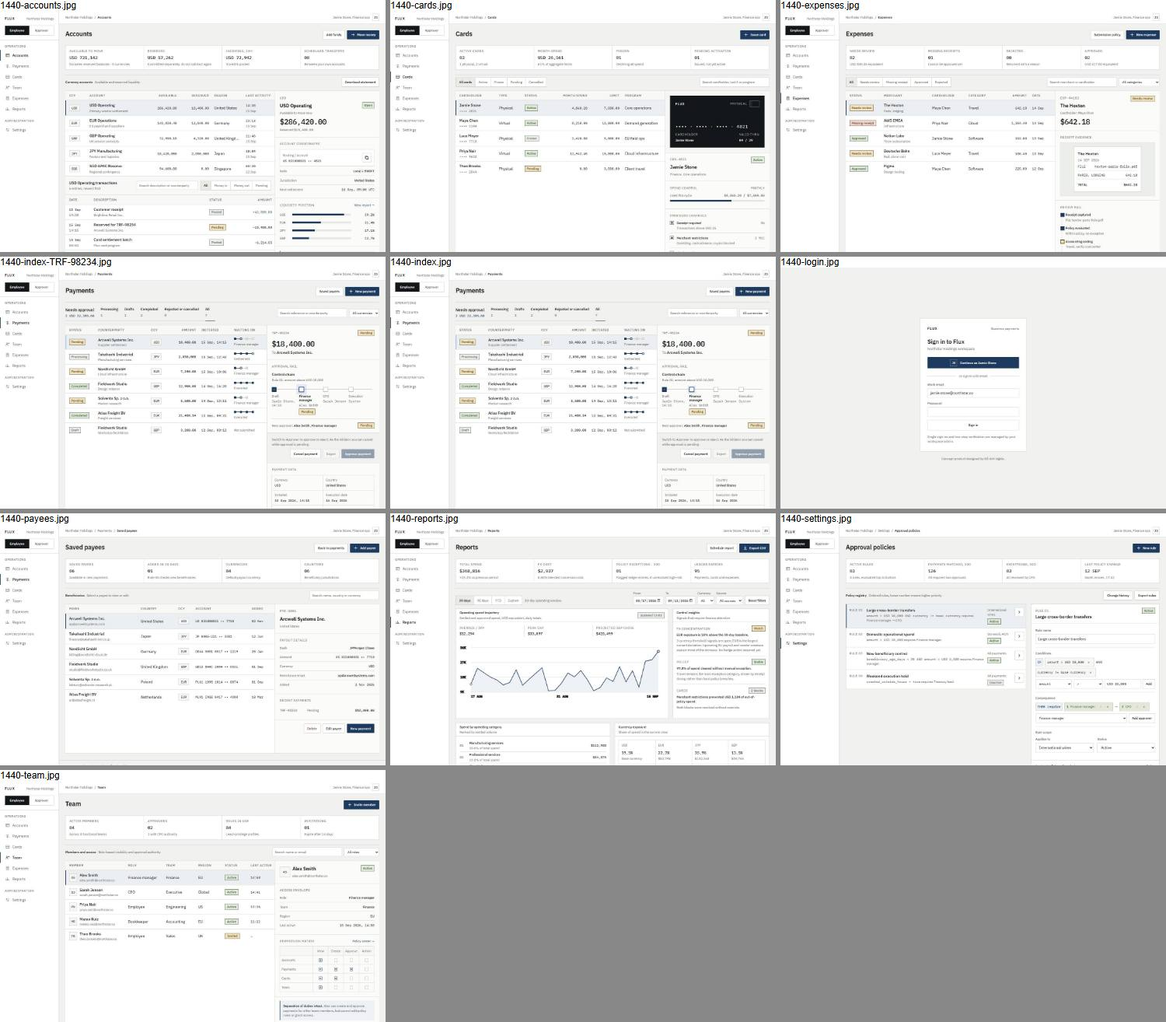
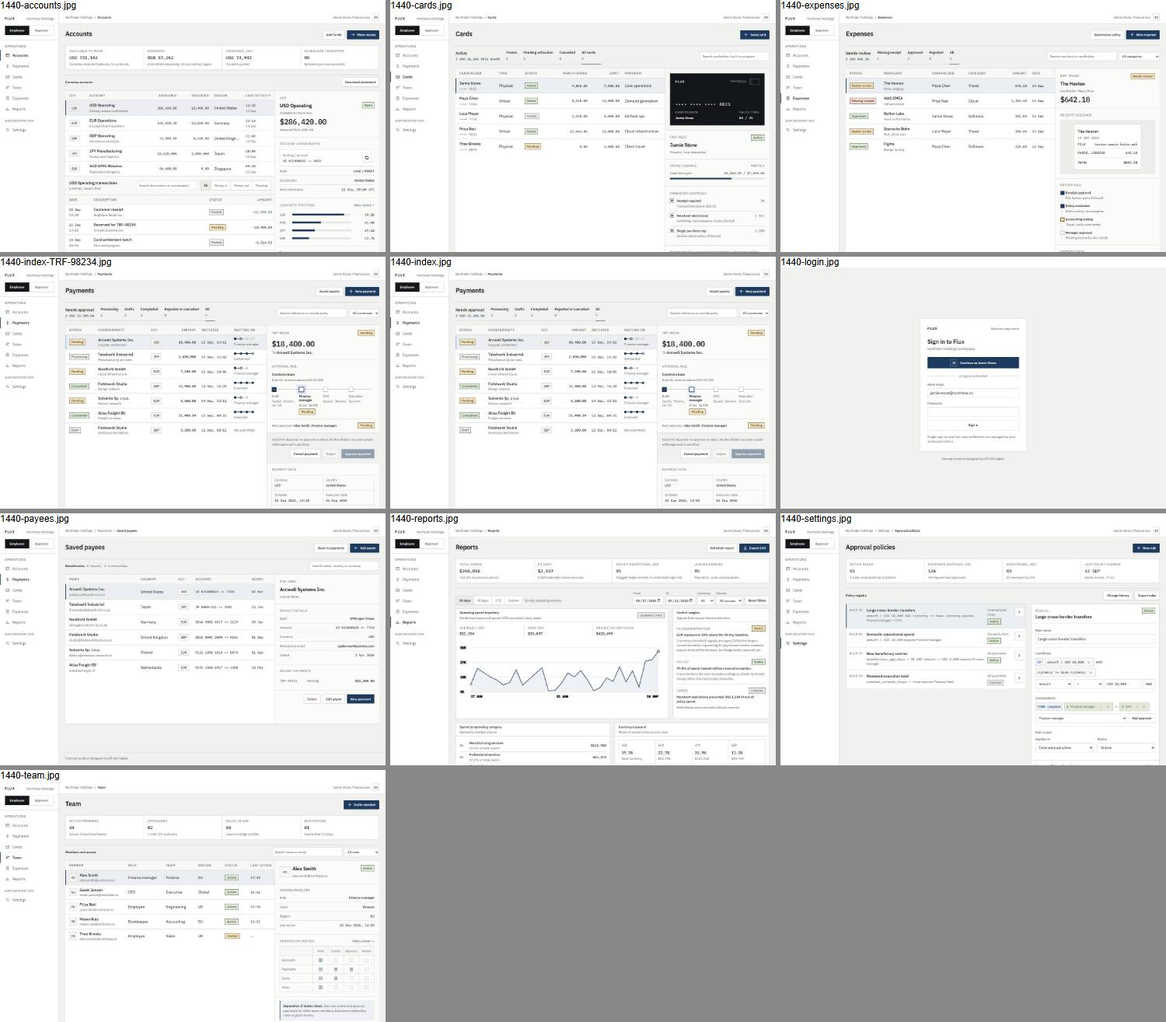
Remaining screens: counted tabs, ledger lists on phones, cleaner copy
- Cards and Expenses: the metric strip becomes counted status tabs; the work
  tab leads with its value.
- Payees: drop the low-value strip; the count sits in the list header.
- Accounts, Team, Reports, Settings keep their strip (unique figures); the
  explanatory notes beside section titles are removed.
- Every table reads as a two-line ledger list on phones. The forced 860, 700
  and 620 px table widths and sideways scrolling are deleted.
- Replace ' · ' joins with commas or spacing; three copy-locking test strings
  updated with the reason recorded in docs/redesign/inventory.md.

full-flows 17/17, Playwright specs 6/6, taste-check 0 errors on 8 screens at
390 and 1440 px, overlay-check 0 errors.

diff --git a/cards.html b/cards.html
@@ -49,25 +49,19 @@
           <div class="page-title"><h1>Cards</h1></div>
           <div class="page-actions"><button class="btn btn-primary" type="button" id="open-issue-card"><svg viewBox="0 0 24 24" aria-hidden="true"><path d="M12 5v14M5 12h14"></path></svg><span>Issue card</span></button></div>
         </div>
-        <section class="metrics-strip" aria-label="Card program summary">
-          <div class="metric"><span class="metric-label">Active cards</span><strong class="metric-value" id="metric-active-cards">—</strong><span class="metric-note" id="metric-active-note">Physical and virtual</span></div>
-          <div class="metric"><span class="metric-label">Month spend</span><strong class="metric-value" id="metric-card-spend">—</strong><span class="metric-note" id="metric-card-spend-note">Of aggregate limits</span></div>
-          <div class="metric"><span class="metric-label">Frozen</span><strong class="metric-value" id="metric-frozen">—</strong><span class="metric-note">Declining all spend</span></div>
-          <div class="metric"><span class="metric-label">Pending activation</span><strong class="metric-value" id="metric-pending-cards">—</strong><span class="metric-note">Issued, not yet active</span></div>
-        </section>
         <div class="toolbar">
-          <div class="toolbar-group"><div class="segmented" role="group" aria-label="Card status filter"><button class="active" type="button" data-card-filter="all">All cards</button><button type="button" data-card-filter="Active">Active</button><button type="button" data-card-filter="Frozen">Frozen</button><button type="button" data-card-filter="Pending">Pending</button><button type="button" data-card-filter="Cancelled">Cancelled</button></div></div>
+          <div class="toolbar-group"><div class="status-tabs" role="group" aria-label="Card status filter"><button type="button" class="status-tab lead" data-card-filter="Active"><span class="status-tab-label">Active</span><span class="status-tab-meta"><span data-count="Active">0</span> <span class="status-tab-sum" data-sum="spend"></span></span></button><button type="button" class="status-tab" data-card-filter="Frozen"><span class="status-tab-label">Frozen</span><span class="status-tab-meta"><span data-count="Frozen">0</span></span></button><button type="button" class="status-tab" data-card-filter="Pending"><span class="status-tab-label">Pending activation</span><span class="status-tab-meta"><span data-count="Pending">0</span></span></button><button type="button" class="status-tab" data-card-filter="Cancelled"><span class="status-tab-label">Cancelled</span><span class="status-tab-meta"><span data-count="Cancelled">0</span></span></button><button type="button" class="status-tab active" data-card-filter="all"><span class="status-tab-label">All cards</span><span class="status-tab-meta"><span data-count="all">0</span></span></button></div></div>
           <div class="toolbar-group"><label class="visually-hidden" for="card-search">Search cards</label><input id="card-search" class="input toolbar-search" type="search" placeholder="Search cardholder, last 4 or program"></div>
         </div>
         <section class="workbench-grid" aria-label="Corporate card workspace">
           <div class="workbench-main table-scroll" id="cards-region">
-            <table class="data-table" aria-label="Company cards"><thead><tr><th>Cardholder</th><th class="col-type">Type</th><th class="col-status">Status</th><th class="right col-money">Month spend</th><th class="right col-money-sm">Limit</th><th class="col-program">Program</th></tr></thead><tbody id="cards-body"></tbody></table>
+            <table class="data-table ledger-list ledger-cards" aria-label="Company cards"><thead><tr><th>Cardholder</th><th class="col-type">Type</th><th class="col-status">Status</th><th class="right col-money">Month spend</th><th class="right col-money-sm">Limit</th><th class="col-program">Program</th></tr></thead><tbody id="cards-body"></tbody></table>
             <div id="cards-empty"></div>
           </div>
           <aside class="workbench-aside" id="card-pane" aria-label="Selected card">
             <div id="card-not-found" class="detail-missing" hidden></div>
             <div id="card-pane-body">
-              <div class="card-stage"><div class="corporate-card" id="corporate-card" data-artwork><span class="card-brand">FLUX</span><span class="card-kind" id="card-pane-type">Physical</span><div class="card-number">•••• · •••• · •••• · <span id="card-pane-last4">4821</span></div><div class="card-meta"><span>Cardholder<strong id="card-pane-holder">Jamie Stone</strong></span><span>Valid thru<strong class="mono" id="card-pane-expiry">09 / 29</strong></span></div></div></div>
+              <div class="card-stage"><div class="corporate-card" id="corporate-card" data-artwork><span class="card-brand">FLUX</span><span class="card-kind" id="card-pane-type">Physical</span><div class="card-number">••••  ••••  ••••  <span id="card-pane-last4">4821</span></div><div class="card-meta"><span>Cardholder<strong id="card-pane-holder">Jamie Stone</strong></span><span>Valid thru<strong class="mono" id="card-pane-expiry">09 / 29</strong></span></div></div></div>
               <div class="pane-section"><div class="pane-head-row"><div><span class="pane-kicker" id="card-pane-id">CRD-4821</span><h2 class="pane-title" id="card-pane-owner">Jamie Stone</h2><p class="pane-subtitle"><span id="card-pane-department">Finance</span>, <span id="card-pane-program">Core operations</span></p></div><span class="status status-success" id="card-pane-status">Active</span></div></div>
               <div class="pane-section"><div class="section-head"><p class="section-label">Spend control</p><span class="mono section-meta">MONTHLY</span></div><div class="limit-block"><div class="limit-row"><div class="limit-copy"><span>Used this cycle</span><strong><span id="card-pane-monthly">$0.00</span> / <span id="card-pane-limit">$0.00</span></strong></div><div class="limit-track"><div class="limit-fill" id="card-limit-fill"></div></div></div></div></div>
               <div class="pane-section"><p class="section-label">Embedded controls</p><ul class="control-list"><li class="control-item"><span class="control-marker on"></span><div class="control-copy"><strong>Receipt required</strong><span>Transactions above USD 25</span></div><span>ON</span></li><li class="control-item"><span class="control-marker on"></span><div class="control-copy"><strong>Merchant restrictions</strong><span>Gambling, cash advance, crypto blocked</span></div><span>3 MCC</span></li><li class="control-item"><span class="control-marker on"></span><div class="control-copy"><strong>Single purchase cap</strong><span>Decline above policy threshold</span></div><span>2,500</span></li></ul></div>

diff --git a/style-base.css b/style-base.css
@@ -286,19 +286,40 @@ dialog::backdrop { background: rgba(20, 23, 26, .28); }
   .metrics-strip { grid-template-columns: 1fr 1fr; }
   .data-table { min-width: 680px; }
   .table-region { overflow-x: auto; }
-  /* Payments read as a ledger list on phones instead of a table cut at the right edge. */
-  .data-table.payments-ledger { min-width: 0; table-layout: auto; }
-  .payments-ledger thead { display: none; }
-  .payments-ledger tbody, .payments-ledger tr { display: block; }
-  .payments-ledger tbody tr { display: grid; grid-template-columns: minmax(0, 1fr) auto; gap: 4px 12px; padding: 12px 14px; }
-  .payments-ledger td { height: auto; padding: 0; white-space: normal; }
-  .payments-ledger td:first-child { padding-left: 0; grid-column: 1; grid-row: 2; }
-  .payments-ledger td.counterparty { grid-column: 1; grid-row: 1; }
-  .payments-ledger td:nth-child(3), .payments-ledger td:nth-child(5) { display: none; }
-  .payments-ledger td.amount-col { grid-column: 2; grid-row: 1; text-align: right; }
-  .payments-ledger td.stage-column { display: block; grid-column: 2; grid-row: 2; text-align: right; }
-  .payments-ledger .mini-rail { justify-content: flex-end; }
-  .payments-ledger td.amount-col::after { content: ' ' attr(data-ccy); color: var(--secondary); }
+  /* Every table reads as a ledger list on phones instead of a table cut at the right edge: two lines per
+     row, name and status on the left, money and one extra fact on the right. */
+  .data-table.ledger-list { min-width: 0; table-layout: auto; }
+  .ledger-list thead { display: none; }
+  .ledger-list tbody, .ledger-list tr { display: block; }
+  .ledger-list tbody tr { display: grid; grid-template-columns: minmax(0, 1fr) auto; align-items: center; gap: 4px 12px; padding: 12px 14px; }
+  .ledger-list td { display: none; height: auto; padding: 0; white-space: normal; }
+  .ledger-list td:first-child { padding-left: 0; }
+  .ledger-payments td:nth-child(2) { display: block; grid-column: 1; grid-row: 1; }
+  .ledger-payments td:nth-child(1) { display: block; grid-column: 1; grid-row: 2; }
+  .ledger-payments td:nth-child(4) { display: block; grid-column: 2; grid-row: 1; text-align: right; }
+  .ledger-payments td:nth-child(6) { display: block; grid-column: 2; grid-row: 2; text-align: right; }
+  .ledger-accounts td:nth-child(2) { display: block; grid-column: 1; grid-row: 1; }
+  .ledger-accounts td:nth-child(1) { display: block; grid-column: 1; grid-row: 2; }
+  .ledger-accounts td:nth-child(3) { display: block; grid-column: 2; grid-row: 1; text-align: right; }
+  .ledger-tx td:nth-child(2) { display: block; grid-column: 1; grid-row: 1; }
+  .ledger-tx td:nth-child(1) { display: block; grid-column: 1; grid-row: 2; }
+  .ledger-tx td:nth-child(4) { display: block; grid-column: 2; grid-row: 1; text-align: right; }
+  .ledger-tx td:nth-child(3) { display: block; grid-column: 2; grid-row: 2; text-align: right; }
+  .ledger-cards td:nth-child(1) { display: block; grid-column: 1; grid-row: 1; }
+  .ledger-cards td:nth-child(3) { display: block; grid-column: 1; grid-row: 2; }
+  .ledger-cards td:nth-child(4) { display: block; grid-column: 2; grid-row: 1; text-align: right; }
+  .ledger-expenses td:nth-child(2) { display: block; grid-column: 1; grid-row: 1; }
+  .ledger-expenses td:nth-child(1) { display: block; grid-column: 1; grid-row: 2; }
+  .ledger-expenses td:nth-child(5) { display: block; grid-column: 2; grid-row: 1; text-align: right; }
+  .ledger-expenses td:nth-child(6) { display: block; grid-column: 2; grid-row: 2; text-align: right; }
+  .ledger-payees td:nth-child(1) { display: block; grid-column: 1; grid-row: 1; }
+  .ledger-payees td:nth-child(2) { display: block; grid-column: 1; grid-row: 2; }
+  .ledger-payees td:nth-child(3) { display: block; grid-column: 2; grid-row: 1; text-align: right; }
+  .ledger-team td:nth-child(1) { display: block; grid-column: 1; grid-row: 1; }
+  .ledger-team td:nth-child(2) { display: block; grid-column: 1; grid-row: 2; }
+  .ledger-team td:nth-child(5) { display: block; grid-column: 2; grid-row: 1; text-align: right; }
+  .ledger-list .mini-rail { justify-content: flex-end; }
+  .ledger-payments td.amount-col::after { content: ' ' attr(data-ccy); color: var(--secondary); }
   .form-grid { grid-template-columns: 1fr; }
   .form-field.full { grid-column: auto; }
   .rule-editor { grid-template-columns: 1fr 96px; }

diff --git a/expenses.html b/expenses.html
@@ -49,14 +49,8 @@
           <div class="page-title"><h1>Expenses</h1></div>
           <div class="page-actions"><button class="btn" type="button" id="open-expense-policy">Submission policy</button><button class="btn btn-primary" type="button" id="open-new-expense"><svg viewBox="0 0 24 24" aria-hidden="true"><path d="M12 5v14M5 12h14"></path></svg><span>New expense</span></button></div>
         </div>
-        <section class="metrics-strip" aria-label="Expense review summary">
-          <div class="metric"><span class="metric-label">Needs review</span><strong class="metric-value" id="metric-review">—</strong><span class="metric-note" id="metric-review-note">Loading</span></div>
-          <div class="metric"><span class="metric-label">Missing receipts</span><strong class="metric-value" id="metric-missing">—</strong><span class="metric-note">Cannot be approved yet</span></div>
-          <div class="metric"><span class="metric-label">Rejected</span><strong class="metric-value" id="metric-rejected">—</strong><span class="metric-note">Returned with a reason</span></div>
-          <div class="metric"><span class="metric-label">Approved</span><strong class="metric-value" id="metric-approved">—</strong><span class="metric-note" id="metric-approved-note">Loading</span></div>
-        </section>
         <div class="toolbar">
-          <div class="toolbar-group"><div class="segmented" role="group" aria-label="Expense status filter"><button type="button" class="active" data-expense-filter="all">All</button><button type="button" data-expense-filter="review">Needs review</button><button type="button" data-expense-filter="missing">Missing receipt</button><button type="button" data-expense-filter="approved">Approved</button><button type="button" data-expense-filter="rejected">Rejected</button></div></div>
+          <div class="toolbar-group"><div class="status-tabs" role="group" aria-label="Expense status filter"><button type="button" class="status-tab lead" data-expense-filter="review"><span class="status-tab-label">Needs review</span><span class="status-tab-meta"><span data-count="review">0</span> <span class="status-tab-sum" data-sum="review"></span></span></button><button type="button" class="status-tab" data-expense-filter="missing"><span class="status-tab-label">Missing receipt</span><span class="status-tab-meta"><span data-count="missing">0</span></span></button><button type="button" class="status-tab" data-expense-filter="approved"><span class="status-tab-label">Approved</span><span class="status-tab-meta"><span data-count="approved">0</span></span></button><button type="button" class="status-tab" data-expense-filter="rejected"><span class="status-tab-label">Rejected</span><span class="status-tab-meta"><span data-count="rejected">0</span></span></button><button type="button" class="status-tab active" data-expense-filter="all"><span class="status-tab-label">All</span><span class="status-tab-meta"><span data-count="all">0</span></span></button></div></div>
           <div class="toolbar-group">
             <label class="visually-hidden" for="expense-search">Search expenses</label>
             <input id="expense-search" class="input toolbar-search" type="search" placeholder="Search merchant or cardholder">
@@ -66,7 +60,7 @@
         </div>
         <section class="workbench-grid" aria-label="Expense review workspace">
           <div class="workbench-main" id="expenses-region">
-            <table class="data-table" aria-label="Expenses"><thead><tr><th class="col-status-wide">Status</th><th>Merchant</th><th class="col-person">Cardholder</th><th class="col-category">Category</th><th class="right col-money-sm">Amount</th><th class="col-date-short">Date</th></tr></thead><tbody id="expenses-body"></tbody></table>
+            <table class="data-table ledger-list ledger-expenses" aria-label="Expenses"><thead><tr><th class="col-status-wide">Status</th><th>Merchant</th><th class="col-person">Cardholder</th><th class="col-category">Category</th><th class="right col-money-sm">Amount</th><th class="col-date-short">Date</th></tr></thead><tbody id="expenses-body"></tbody></table>
             <div id="expense-empty-state"></div>
           </div>
           <aside class="workbench-aside" id="expense-pane" aria-label="Selected expense">

diff --git a/workspace.js b/workspace.js
@@ -311,15 +311,10 @@
     function render() {
       const all = store.list('cards');
       const live = all.filter((c) => c.status !== 'Cancelled');
-      const active = all.filter((c) => c.status === 'Active');
-      setText('metric-active-cards', fmt.pad2(active.length));
-      setText('metric-active-note', `${active.filter((c) => c.type === 'Physical').length} physical, ${active.filter((c) => c.type === 'Virtual').length} virtual`);
+      // Counts live on the status tabs; the Active tab also carries this month's spend.
+      document.querySelectorAll('[data-count]').forEach((el) => { el.textContent = String(el.dataset.count === 'all' ? all.length : all.filter((c) => c.status === el.dataset.count).length); });
       const spend = live.reduce((s, c) => s + F.toUsd(c.monthly, c.currency), 0);
-      const limits = live.reduce((s, c) => s + F.toUsd(c.limit, c.currency), 0) || 1;
-      setText('metric-card-spend', `USD ${fmt.whole(spend)}`);
-      setText('metric-card-spend-note', `${Math.round((spend / limits) * 100)}% of aggregate limits`);
-      setText('metric-frozen', fmt.pad2(all.filter((c) => c.status === 'Frozen').length));
-      setText('metric-pending-cards', fmt.pad2(all.filter((c) => c.status === 'Pending').length));
+      document.querySelectorAll('[data-sum="spend"]').forEach((el) => { el.textContent = `USD ${fmt.whole(spend)} this month`; });
       const list = rows();
       tbody.innerHTML = list.map((c) => `<tr tabindex="0" data-id="${esc(c.id)}" class="${c.status === 'Cancelled' ? 'row-muted' : ''}"><td><span class="table-strong">${esc(c.holder)}</span><span class="subcopy mono">•••• ${esc(c.last4)}</span></td><td>${esc(c.type)}</td><td><span class="${STATUS[c.status]}">${esc(c.status)}</span></td><td class="right mono">${fmt.number(c.monthly, c.currency)}</td><td class="right mono">${fmt.number(c.limit, c.currency)}</td><td>${esc(c.program)}</td></tr>`).join('');
       listEmpty(document.getElementById('cards-empty'), {
@@ -705,13 +700,9 @@
       const all = store.list('expenses');
       const usd = (items) => items.reduce((s, x) => s + F.toUsd(x.amount, x.currency), 0);
       const review = all.filter((x) => x.status === 'review');
-      const approved = all.filter((x) => x.status === 'approved');
-      setText('metric-review', fmt.pad2(review.length));
-      setText('metric-review-note', `USD ${fmt.number(usd(review))} equivalent`);
-      setText('metric-missing', fmt.pad2(all.filter((x) => x.status === 'missing').length));
-      setText('metric-rejected', fmt.pad2(all.filter((x) => x.status === 'rejected').length));
-      setText('metric-approved', fmt.pad2(approved.length));
-      setText('metric-approved-note', `USD ${fmt.number(usd(approved))} equivalent`);
+      // Counts live on the status tabs; the review tab also carries the USD value waiting.
+      document.querySelectorAll('[data-count]').forEach((el) => { el.textContent = String(el.dataset.count === 'all' ? all.length : all.filter((x) => x.status === el.dataset.count).length); });
+      document.querySelectorAll('[data-sum="review"]').forEach((el) => { el.textContent = review.length ? `USD ${fmt.number(usd(review))}` : ''; });
       const list = rows();
       tbody.innerHTML = list.map((x) => {
         const [label, cls] = STATUS[x.status];
@@ -969,7 +960,7 @@
       setText('report-spend-delta', prevTotal ? `${total >= prevTotal ? '+' : '-'}${Math.abs(((total - prevTotal) / prevTotal) * 100).toFixed(1)}%` : 'n/a');
       setText('report-fx-cost', `$${fmt.whole(fx)}`);
       setText('report-fx-note', `${total ? ((fx / total) * 100).toFixed(2) : '0.00'}% blended conversion cost`);
-      setText('report-exceptions-label', `Policy exceptions · ${label}`);
+      setText('report-exceptions-label', `Policy exceptions, ${label}`);
       setText('report-exceptions', fmt.pad2(current.filter((r) => r.exception).length));
       setText('report-entries', fmt.whole(current.length));
       setText('report-range-label', range === '30d' ? '30-day operating window' : range === '90d' ? '90-day operating window' : range === 'ytd' ? 'Year-to-date operating window' : `${fmt.date(from)} to ${fmt.date(to)}`);

diff --git a/accounts.html b/accounts.html
@@ -53,19 +53,19 @@
           </div>
         </div>
         <section class="metrics-strip" aria-label="Accounts summary">
-          <div class="metric"><span class="metric-label">Available to move</span><strong class="metric-value" id="metric-available">—</strong><span class="metric-note">Excludes reserved balances · 5 currencies</span></div>
+          <div class="metric"><span class="metric-label">Available to move</span><strong class="metric-value" id="metric-available">—</strong><span class="metric-note">Excludes reserved balances, 5 currencies</span></div>
           <div class="metric"><span class="metric-label">Reserved</span><strong class="metric-value" id="metric-reserved">—</strong><span class="metric-note">Committed separately, do not subtract again</span></div>
           <div class="metric"><span class="metric-label">Incoming, 24h</span><strong class="metric-value" id="metric-incoming">—</strong><span class="metric-note" id="metric-incoming-note">Loading</span></div>
           <div class="metric"><span class="metric-label">Scheduled transfers</span><strong class="metric-value" id="metric-scheduled">—</strong><span class="metric-note">Between your own accounts</span></div>
         </section>
         <div class="toolbar">
-          <div class="toolbar-group"><strong class="toolbar-title">Currency accounts</strong><span class="toolbar-note">Available and reserved liquidity</span></div>
+          <div class="toolbar-group"><strong class="toolbar-title">Currency accounts</strong></div>
           <div class="toolbar-group"><button class="btn" type="button" id="export-statement">Download statement</button></div>
         </div>
         <section class="workbench-grid" aria-label="Currency account workspace">
           <div class="workbench-main">
             <div id="accounts-region" class="table-scroll">
-              <table class="data-table" aria-label="Currency accounts">
+              <table class="data-table ledger-list ledger-accounts" aria-label="Currency accounts">
                 <thead><tr><th class="col-ccy-wide">CCY</th><th>Account</th><th class="right col-money">Available</th><th class="right col-money-sm">Reserved</th><th class="col-region">Region</th><th class="col-region">Last activity</th></tr></thead>
                 <tbody id="accounts-body"></tbody>
               </table>
@@ -86,7 +86,7 @@
                 </div>
               </div>
               <div id="tx-region" class="table-scroll">
-                <table class="data-table" aria-label="Account transactions">
+                <table class="data-table ledger-list ledger-tx" aria-label="Account transactions">
                   <thead><tr><th class="col-date-short">Date</th><th>Description</th><th class="col-status">Status</th><th class="right col-money">Amount</th></tr></thead>
                   <tbody id="tx-body"></tbody>
                 </table>

diff --git a/payees.html b/payees.html
@@ -56,15 +56,8 @@
           </div>
         </div>
 
-        <section class="metrics-strip" aria-label="Payee summary">
-          <div class="metric"><span class="metric-label">Saved payees</span><strong class="metric-value" id="payee-count">—</strong><span class="metric-note">Available in new payments</span></div>
-          <div class="metric"><span class="metric-label">Added in 30 days</span><strong class="metric-value" id="payee-new-count">—</strong><span class="metric-note">Rule 03 checks new beneficiaries</span></div>
-          <div class="metric"><span class="metric-label">Currencies</span><strong class="metric-value" id="payee-currency-count">—</strong><span class="metric-note">Default payout currency</span></div>
-          <div class="metric"><span class="metric-label">Countries</span><strong class="metric-value" id="payee-country-count">—</strong><span class="metric-note">Beneficiary jurisdictions</span></div>
-        </section>
-
         <div class="toolbar">
-          <div class="toolbar-group"><strong class="toolbar-title">Beneficiaries</strong><span class="toolbar-note">Select a payee to view or edit</span></div>
+          <div class="toolbar-group"><strong class="toolbar-title">Beneficiaries</strong><span class="toolbar-note mono" id="payee-count"></span></div>
           <div class="toolbar-group">
             <label class="visually-hidden" for="payee-search">Search payees</label>
             <input id="payee-search" class="input toolbar-search" type="search" placeholder="Search name, country or currency">
@@ -73,7 +66,7 @@
 
         <section class="workbench-grid" aria-label="Saved payees workspace">
           <div class="workbench-main" id="payees-region">
-            <table class="data-table" aria-label="Saved payees">
+            <table class="data-table ledger-list ledger-payees" aria-label="Saved payees">
               <thead><tr><th>Payee</th><th class="col-country">Country</th><th class="col-ccy">CCY</th><th class="col-account">Account</th><th class="col-date-short">Added</th></tr></thead>
               <tbody id="payees-body"></tbody>
             </table>

diff --git a/workspace.css b/workspace.css
@@ -185,7 +185,7 @@
 .flux-toast.show { opacity: 1; transform: translateY(0); }
 
 @media (max-width: 1180px) {
-  .workbench-grid { grid-template-columns: 1fr; }
+  .workbench-grid { grid-template-columns: minmax(0, 1fr); }
   .workbench-aside { border-left: 0; border-top: 1px solid var(--line); }
   .report-primary { grid-template-columns: 1fr; }
   .permission-grid { grid-template-columns: minmax(92px, 1.25fr) repeat(4, minmax(0, 1fr)); }
@@ -195,13 +195,8 @@
   .chart-wrap { min-height: 260px; }
 }
 /* The shell (sidebar, topbar, page padding, tables) collapses in style-base.css at 820 px. */
-@media (max-width: 820px) {
-  .workbench-main { overflow-x: auto; }
-}
 @media (max-width: 760px) {
   .workbench-grid { min-width: 0; }
-  .workbench-main { overflow-x: auto; }
-  .workbench-main .data-table { min-width: 700px; }
   .liquidity-summary { grid-template-columns: 1fr; }
   .liquidity-cell { border-right: 0; border-bottom: 1px solid var(--line); }
   .liquidity-cell:last-child { border-bottom: 0; }
@@ -416,15 +411,10 @@
 
 .data-table td time, .data-table td.mono, .data-table td .mono { font-size: 12px; }
 
-/* Narrow screens: tables scroll inside their own region, never the page */
+/* Narrow screens: tables become ledger lists (style-base.css), so nothing scrolls sideways. */
 .table-scroll { min-width: 0; }
 .data-table .table-strong, .data-table .subcopy { display: block; overflow: hidden; text-overflow: ellipsis; white-space: nowrap; }
 .rail-status { max-width: 100%; }
-@media (max-width: 820px) {
-  .table-scroll { overflow-x: auto; }
-  #accounts-region .data-table, #cards-region .data-table { min-width: 860px; }
-  #tx-region .data-table { min-width: 620px; }
-}
 @media (max-width: 400px) {
   .workspace { grid-template-columns: minmax(0, 1fr); }
   .permission-grid { grid-template-columns: minmax(64px, 1fr) repeat(4, minmax(0, 1fr)); }

diff --git a/team.html b/team.html
@@ -56,7 +56,7 @@
           <div class="metric"><span class="metric-label">Invitations</span><strong class="metric-value" id="metric-invites">—</strong><span class="metric-note">Expire after 14 days</span></div>
         </section>
         <div class="toolbar">
-          <div class="toolbar-group"><strong class="toolbar-title">Members and access</strong><span class="toolbar-note">Role-based visibility and approval authority</span></div>
+          <div class="toolbar-group"><strong class="toolbar-title">Members and access</strong></div>
           <div class="toolbar-group">
             <label class="visually-hidden" for="member-search">Search members</label>
             <input id="member-search" class="input toolbar-search" type="search" placeholder="Search name or email">
@@ -66,7 +66,7 @@
         </div>
         <section class="workbench-grid" aria-label="Team access workspace">
           <div class="workbench-main" id="team-region">
-            <table class="data-table" aria-label="Team members"><thead><tr><th>Member</th><th class="col-role">Role</th><th class="col-team">Team</th><th class="col-region-sm">Region</th><th class="col-status-sm">Status</th><th class="col-region-sm">Last active</th></tr></thead><tbody id="team-body"></tbody></table>
+            <table class="data-table ledger-list ledger-team" aria-label="Team members"><thead><tr><th>Member</th><th class="col-role">Role</th><th class="col-team">Team</th><th class="col-region-sm">Region</th><th class="col-status-sm">Status</th><th class="col-region-sm">Last active</th></tr></thead><tbody id="team-body"></tbody></table>
             <div id="team-empty"></div>
           </div>
           <aside class="workbench-aside" id="member-pane" aria-label="Selected member">

diff --git a/reports.html b/reports.html
@@ -52,7 +52,7 @@
         <section class="metrics-strip" aria-label="Reporting summary">
           <div class="metric"><span class="metric-label">Total spend</span><strong class="metric-value" id="report-total-spend">—</strong><span class="metric-note"><span id="report-spend-delta">—</span> vs previous period</span></div>
           <div class="metric"><span class="metric-label">FX cost</span><strong class="metric-value" id="report-fx-cost">—</strong><span class="metric-note" id="report-fx-note">Blended conversion cost</span></div>
-          <div class="metric"><span class="metric-label" id="report-exceptions-label">Policy exceptions · 30d</span><strong class="metric-value" id="report-exceptions">—</strong><span class="metric-note">Flagged ledger entries, 0 unresolved high-risk</span></div>
+          <div class="metric"><span class="metric-label" id="report-exceptions-label">Policy exceptions, 30d</span><strong class="metric-value" id="report-exceptions">—</strong><span class="metric-note">Flagged ledger entries, 0 unresolved high-risk</span></div>
           <div class="metric"><span class="metric-label">Ledger entries</span><strong class="metric-value" id="report-entries">—</strong><span class="metric-note">Payments, cards and expenses</span></div>
         </section>
         <div class="toolbar report-toolbar">

diff --git a/app.js b/app.js
@@ -745,10 +745,7 @@
     function render() {
       const all = store.list('payees');
       const list = rows();
-      setText('payee-count', fmt.pad2(all.length));
-      setText('payee-new-count', fmt.pad2(all.filter((p) => (F.now() - F.parseDate(p.createdAt)) / 86400000 < 30).length));
-      setText('payee-currency-count', fmt.pad2(new Set(all.map((p) => p.currency)).size));
-      setText('payee-country-count', fmt.pad2(new Set(all.map((p) => p.country)).size));
+      setText('payee-count', `${all.length} saved, ${new Set(all.map((p) => p.currency)).size} currencies`);
       tbody.innerHTML = list.map((p) => `<tr tabindex="0" data-id="${esc(p.id)}">
         <td><span class="table-strong">${esc(p.name)}</span><span class="subcopy">${esc(p.email || 'No remittance email')}</span></td>
         <td>${esc(p.country)}</td>

diff --git a/settings.html b/settings.html
@@ -61,7 +61,7 @@
         </section>
 
         <div class="toolbar">
-          <div class="toolbar-group"><strong class="toolbar-title">Policy registry</strong><span class="toolbar-note">Ordered rules, lower number means higher priority</span></div>
+          <div class="toolbar-group"><strong class="toolbar-title">Policy registry</strong></div>
           <div class="toolbar-group"><button class="btn" type="button" id="history-button">Change history</button><button class="btn" type="button" id="export-rules">Export rules</button></div>
         </div>
 

diff --git a/index.html b/index.html
@@ -77,7 +77,7 @@
 
         <section class="workspace-grid" aria-label="Payment operations workspace">
           <div class="table-region" id="payments-region">
-            <table class="data-table payments-ledger" id="payments-table" aria-label="Payments">
+            <table class="data-table ledger-list ledger-payments" id="payments-table" aria-label="Payments">
               <thead>
                 <tr>
                   <th class="col-status">Status</th>
